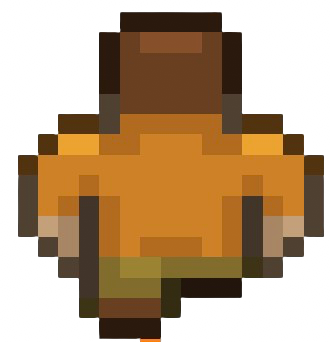
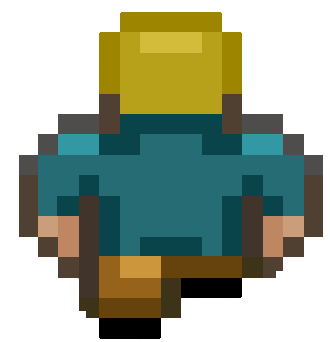
Grafikai előkészületek.

diff --git a/src/model/board/Image.java b/src/model/board/Image.java
@@ -37,20 +37,20 @@ public enum Image {
      * Represents the image URL for the second player character.
      */
     PLAYER2_IMG(Arrays.asList(
-            "src/resources/assets/bomberman2/bomberman1e1.png",
-            "src/resources/assets/bomberman2/bomberman1e2.png",
-            "src/resources/assets/bomberman2/bomberman1e3.png",
-            "src/resources/assets/bomberman2/bomberman1e4.png",
-            "src/resources/assets/bomberman2/bomberman1n1.png",
-            "src/resources/assets/bomberman2/bomberman1n2.png",
-            "src/resources/assets/bomberman2/bomberman1n3.png",
-            "src/resources/assets/bomberman2/bomberman1s1.png",
-            "src/resources/assets/bomberman2/bomberman1s2.png",
-            "src/resources/assets/bomberman2/bomberman1s3.png",
-            "src/resources/assets/bomberman2/bomberman1w1.png",
-            "src/resources/assets/bomberman2/bomberman1w2.png",
-            "src/resources/assets/bomberman2/bomberman1w3.png",
-            "src/resources/assets/bomberman2/bomberman1w4.png"
+            "src/resources/assets/bomberman2/bomberman2e1.png",
+            "src/resources/assets/bomberman2/bomberman2e2.png",
+            "src/resources/assets/bomberman2/bomberman2e3.png",
+            "src/resources/assets/bomberman2/bomberman2e4.png",
+            "src/resources/assets/bomberman2/bomberman2n1.png",
+            "src/resources/assets/bomberman2/bomberman2n2.png",
+            "src/resources/assets/bomberman2/bomberman2n3.png",
+            "src/resources/assets/bomberman2/bomberman2s1.png",
+            "src/resources/assets/bomberman2/bomberman2s2.png",
+            "src/resources/assets/bomberman2/bomberman2s3.png",
+            "src/resources/assets/bomberman2/bomberman2w1.png",
+            "src/resources/assets/bomberman2/bomberman2w2.png",
+            "src/resources/assets/bomberman2/bomberman2w3.png",
+            "src/resources/assets/bomberman2/bomberman2w4.png"
     )),
 
     /**
@@ -61,7 +61,7 @@ public enum Image {
     /**
      * Represents the image URL for a box in map 1.
      */
-    BOX_IMG_MAP1("src/resources/assets/tiles/map1/box.png"),
+    BOX_IMG_MAP1("src/resources/assets/tiles/map1/box_pixel.png"),
 
     /**
      * Represents the image URL for a monster in map 1.
@@ -86,7 +86,7 @@ public enum Image {
     /**
      * Represents the image URL for a wall in map 1.
      */
-    WALL_IMG_MAP1("src/resources/assets/tiles/map1/wall.png"),
+    WALL_IMG_MAP1("src/resources/assets/tiles/map1/wall_pixel.png"),
 
     /**
      * Represents the image URL for the background of map 2.

diff --git a/src/model/board/Board.java b/src/model/board/Board.java
@@ -430,7 +430,7 @@ public class Board {
 
     public void putRandomBonusInBox(Box box) {
         Random random = new Random();
-        int randomNumber = 7;//random.nextInt(8); // Az eddig elkészült bónuszok száma
+        int randomNumber = random.nextInt(8); // Az eddig elkészült bónuszok száma
         Bonus bonus = null;
         switch(randomNumber) {
             case 0:
